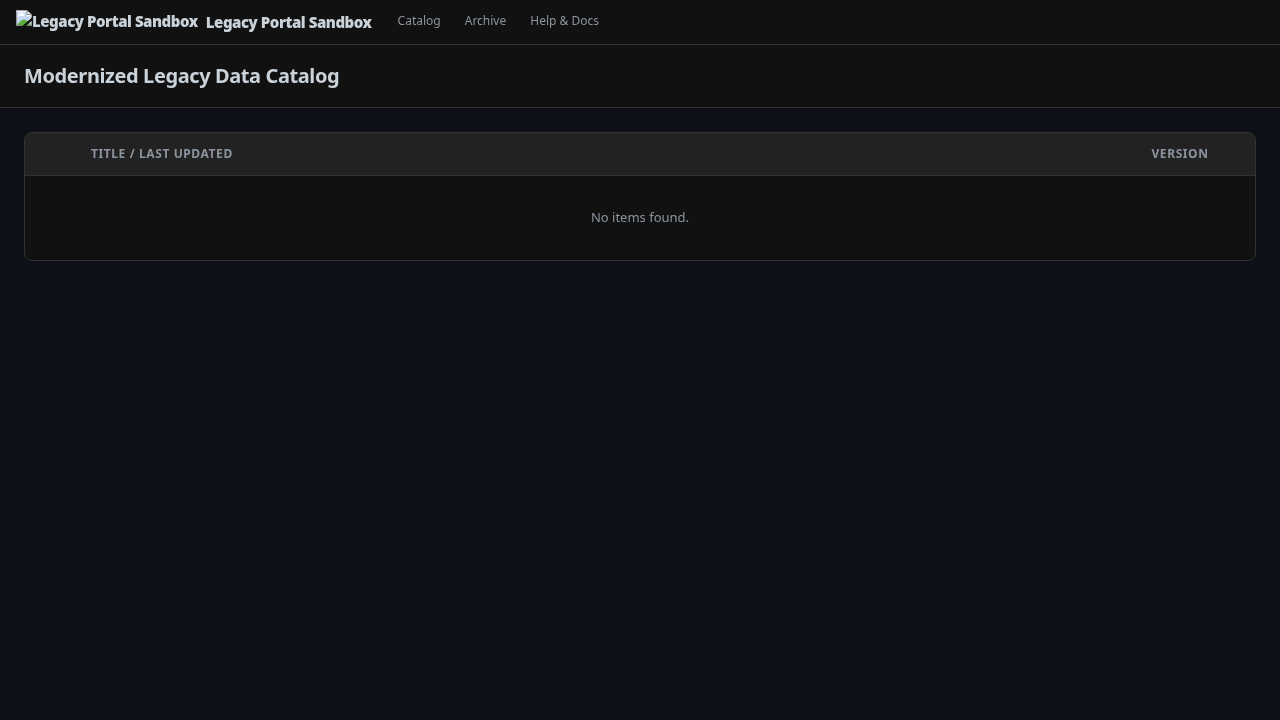
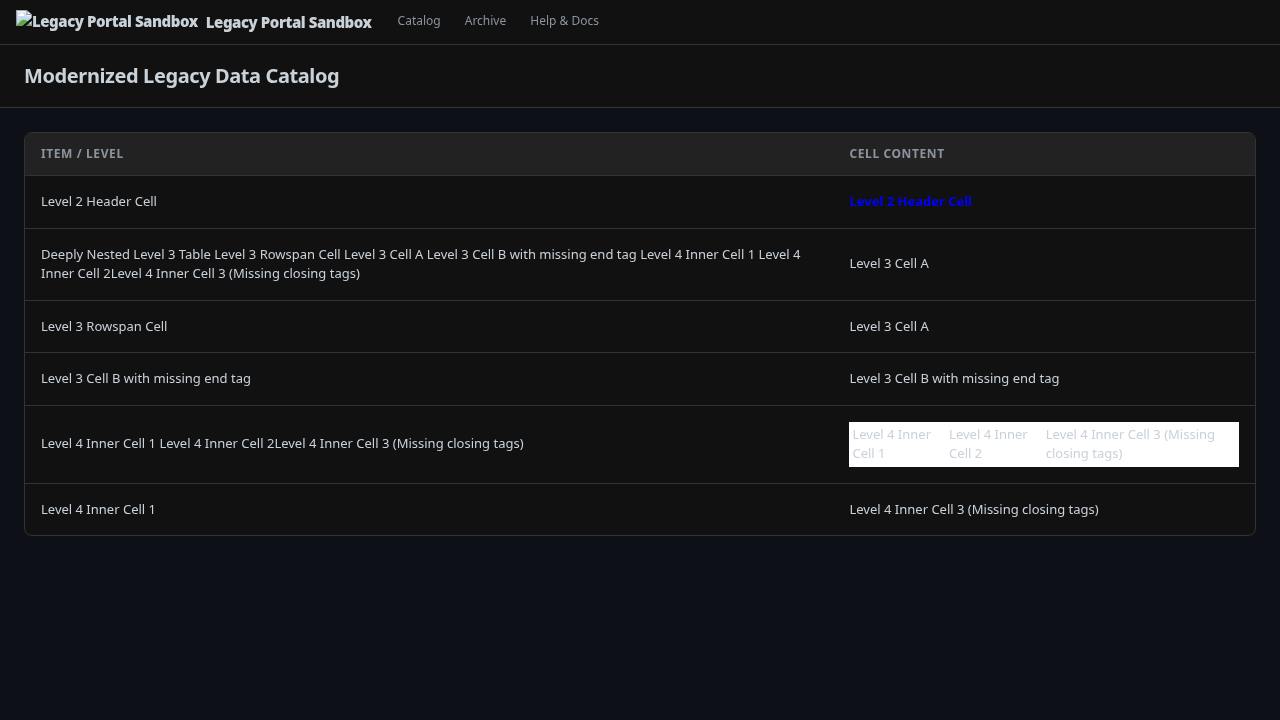
fix(qa): update vnr files to conform strictly with React component props schemas (cards for UiDashboardPage, tableRows for UiTableListPage)

diff --git a/environments/site-m-extreme-events/fixtures/result.html b/environments/site-m-extreme-events/fixtures/result.html
@@ -343,4 +343,4 @@
   </script>
 
 
-<script>window.__spm_dev_manifest = {"components":[{"action":"replace","name":"UiNavHeader","props":{"logoUrl":"https://synthetic-events-portal.internal/assets/logo.png","primaryLinks":[{"label":"Onclick Links","url":"/onclick"},{"label":"Dynamic Selectors","url":"/selectors"},{"label":"XSS Tests","url":"/xss"}],"siteName":"Event Sandbox"},"selector":"header"},{"action":"hide","selector":"#malformed-tag-container img[onerror]"}],"reconstructs":[{"children":[{"name":"eventFeed","propsMap":{"itemId":"a.test-link | attr:id","label":"a.test-link | text","targetData":"a.test-link | attr:data-target","targetUrl":"a.test-link | hrefOrOnclick"},"selector":".test-case-card"}],"containerSelector":"#section-1-onclick-links","layoutComponent":"UiDashboardPage","preserve":{"interactiveConsole":"#qa-log"},"props":{"pageTitle":"Interactive Event Extraction & Security Sandbox","subtitle":"Testing dynamic selectors, inline onclick redirects, and XSS sanitization"}},{"children":[],"containerSelector":"#section-3-xss-sanitization","layoutComponent":"UiSearchBar","props":{"placeholder":"Test sanitization input...","queryParamName":"payload","submitUrl":"/sandbox-eval"},"propsMap":{"defaultValue":"input#xss-input-1 | attr:value"}}],"theme":{"cssVariables":{"--spm-accent":"#00e5ff","--spm-bg-element":"#1e1e1e","--spm-bg-primary":"#050505","--spm-bg-surface":"#121212","--spm-border-contrast":"rgba(0, 255, 102, 0.2)","--spm-text-muted":"#888888","--spm-text-primary":"#00ff66"},"customStyles":"#qa-log { font-family: monospace !important; border: 1px solid var(--spm-accent) !important; }","label":"Event Sandbox Cyber"}};</script><script src="file:///home/watashi/Projects/extension/dist/src/content/index.iife.js"></script></body></html>
+<script>window.__spm_dev_manifest = {"components":[{"action":"replace","name":"UiNavHeader","props":{"logoUrl":"https://synthetic-events-portal.internal/assets/logo.png","primaryLinks":[{"label":"Onclick Links","url":"/onclick"},{"label":"Dynamic Selectors","url":"/selectors"},{"label":"XSS Tests","url":"/xss"}],"siteName":"Event Sandbox"},"selector":"header"},{"action":"hide","selector":"#malformed-tag-container img[onerror]"}],"reconstructs":[{"children":[{"name":"cards","propsMap":{"description":"p | text","title":"h3 | text","url":"a.test-link | hrefOrOnclick","urlLabel":"a.test-link | text"},"selector":".test-case-card"}],"containerSelector":"#section-1-onclick-links","layoutComponent":"UiDashboardPage","preserve":{"interactiveConsole":"#qa-log"},"props":{"pageTitle":"Interactive Event Extraction & Security Sandbox","subTitle":"Tests extraction and handling of inline event handlers, string arithmetic, function calls, and data-attributes."}},{"children":[],"containerSelector":"#section-3-xss-sanitization","layoutComponent":"UiSearchBar","props":{"placeholder":"Test sanitization input...","queryParamName":"payload","submitUrl":"/sandbox-eval"},"propsMap":{"defaultValue":"input#xss-input-1 | attr:value"}}],"theme":{"cssVariables":{"--spm-accent":"#00e5ff","--spm-bg-element":"#1e1e1e","--spm-bg-primary":"#050505","--spm-bg-surface":"#121212","--spm-border-contrast":"rgba(0, 255, 102, 0.2)","--spm-text-muted":"#888888","--spm-text-primary":"#00ff66"},"customStyles":"#qa-log { font-family: monospace !important; border: 1px solid var(--spm-accent) !important; }","label":"Event Sandbox Cyber"}};</script><script src="file:///home/watashi/Projects/extension/dist/src/content/index.iife.js"></script></body></html>

diff --git a/environments/site-l-extreme-legacy/fixtures/result.html b/environments/site-l-extreme-legacy/fixtures/result.html
@@ -233,4 +233,4 @@ marquee { display: none !important; } font { color: inherit !important; font-fam
 
 
 
-<script>window.__spm_dev_manifest = {"components":[{"action":"replace","name":"UiNavHeader","props":{"logoUrl":"https://synthetic-legacy-portal.internal/assets/logo.png","primaryLinks":[{"label":"Catalog","url":"/catalog"},{"label":"Archive","url":"/archive"},{"label":"Help & Docs","url":"/docs"}],"siteName":"Legacy Portal Sandbox"},"selector":"header"},{"action":"hide","selector":"#section-3-deprecated-tags marquee, #search-form-footer, center > font"}],"reconstructs":[{"children":[{"name":"tableItems","propsMap":{"detailUrl":"a | attr:href","id":"self | attr:id","tags":"span | text | split","title":"td | text"},"selector":"table table tr"}],"containerSelector":"#section-1-deep-tables","layoutComponent":"UiTableListPage","preserve":{"hiddenMetadata":"#search-form-secondary input[type='hidden']","legacySearchForm":"#search-form-primary"},"props":{"pageTitle":"Modernized Legacy Data Catalog","sticky":true,"subtitle":"Extracted from 4-level nested legacy tables"}}],"theme":{"cssVariables":{"--spm-accent":"#58a6ff","--spm-bg-element":"#21262d","--spm-bg-primary":"#0d1117","--spm-bg-surface":"#161b22","--spm-border-contrast":"rgba(240, 246, 252, 0.1)","--spm-text-muted":"#8b949e","--spm-text-primary":"#c9d1d9"},"customStyles":"marquee { display: none !important; } font { color: inherit !important; font-family: inherit !important; }","label":"Extreme Legacy Dark"}};</script><script src="file:///home/watashi/Projects/extension/dist/src/content/index.iife.js"></script></body></html>
+<script>window.__spm_dev_manifest = {"components":[{"action":"replace","name":"UiNavHeader","props":{"logoUrl":"https://synthetic-legacy-portal.internal/assets/logo.png","primaryLinks":[{"label":"Catalog","url":"/catalog"},{"label":"Archive","url":"/archive"},{"label":"Help & Docs","url":"/docs"}],"siteName":"Legacy Portal Sandbox"},"selector":"header"},{"action":"hide","selector":"#section-3-deprecated-tags marquee, #search-form-footer, center > font"}],"reconstructs":[{"children":[{"name":"tableRows","propsMap":{"detail":"td:last-child | html","title":"td:first-child | text"},"selector":"table table tr"}],"containerSelector":"#section-1-deep-tables","layoutComponent":"UiTableListPage","preserve":{"hiddenMetadata":"#search-form-secondary input[type='hidden']","legacySearchForm":"#search-form-primary"},"props":{"columns":[{"header":"Item / Level","key":"title","type":"text"},{"header":"Cell Content","key":"detail","type":"html"}],"pageTitle":"Modernized Legacy Data Catalog"}}],"theme":{"cssVariables":{"--spm-accent":"#58a6ff","--spm-bg-element":"#21262d","--spm-bg-primary":"#0d1117","--spm-bg-surface":"#161b22","--spm-border-contrast":"rgba(240, 246, 252, 0.1)","--spm-text-muted":"#8b949e","--spm-text-primary":"#c9d1d9"},"customStyles":"marquee { display: none !important; } font { color: inherit !important; font-family: inherit !important; }","label":"Extreme Legacy Dark"}};</script><script src="file:///home/watashi/Projects/extension/dist/src/content/index.iife.js"></script></body></html>

diff --git a/environments/site-n-extreme-layout/fixtures/result.html b/environments/site-n-extreme-layout/fixtures/result.html
@@ -393,4 +393,4 @@
   </script>
 
 
-<script>window.__spm_dev_manifest = {"components":[{"action":"replace","name":"UiNavHeader","props":{"primaryLinks":[{"label":"Gallery","url":"/gallery"},{"label":"Mutations","url":"/mutations"},{"label":"Shadow DOM","url":"/shadow"}],"siteName":"Layout Sandbox","sticky":true},"selector":"header"},{"action":"hide","selector":"#negative-margin-container"}],"reconstructs":[{"children":[{"name":"galleryItems","propsMap":{"imageSrcset":"img | attr:srcset","imageUrl":"img | attr:src","rating":"span | text | cleanNumber","title":"h3 | text"},"selector":"#inline-stress-container"}],"containerSelector":"#section-1","layoutComponent":"UiModernGridPage","preserve":{"shadowDomHost":"#shadow-host"},"props":{"columns":3,"pageTitle":"Extreme Layout & Shadow DOM Gallery","sticky":true,"subtitle":"Stress testing inline CSS overrides, dynamic DOM mutations, and Shadow DOM bounds"}}],"theme":{"cssVariables":{"--spm-accent":"#ff0055","--spm-bg-element":"#1c202e","--spm-bg-primary":"#090a0f","--spm-bg-surface":"#12151e","--spm-border-contrast":"rgba(255, 0, 85, 0.2)","--spm-radius":"12px","--spm-text-muted":"#a0a5b5","--spm-text-primary":"#ffffff"},"customStyles":"#inline-stress-container { width: 100% !important; margin: 0 !important; float: none !important; }\n:host { display: block; width: 100%; box-sizing: border-box; }","label":"Extreme Layout Neon"}};</script><script src="file:///home/watashi/Projects/extension/dist/src/content/index.iife.js"></script></body></html>
+<script>window.__spm_dev_manifest = {"components":[{"action":"replace","name":"UiNavHeader","props":{"primaryLinks":[{"label":"Gallery","url":"/gallery"},{"label":"Mutations","url":"/mutations"},{"label":"Shadow DOM","url":"/shadow"}],"siteName":"Layout Sandbox","sticky":true},"selector":"header"},{"action":"hide","selector":"#negative-margin-container"}],"reconstructs":[{"children":[{"name":"items","propsMap":{"id":"self | attr:id","imageUrl":"img | attr:src","linkUrl":"a | attr:href","title":"self | text"},"selector":"#inline-stress-container, #negative-margin-container"}],"containerSelector":"#section-1","layoutComponent":"UiModernGridPage","preserve":{"shadowDomHost":"#shadow-host"},"props":{"pageTitle":"Extreme Layout & Shadow DOM Gallery","sidebarWidth":"280px"}}],"theme":{"cssVariables":{"--spm-accent":"#ff0055","--spm-bg-element":"#1c202e","--spm-bg-primary":"#090a0f","--spm-bg-surface":"#12151e","--spm-border-contrast":"rgba(255, 0, 85, 0.2)","--spm-radius":"12px","--spm-text-muted":"#a0a5b5","--spm-text-primary":"#ffffff"},"customStyles":"#inline-stress-container { width: 100% !important; margin: 0 !important; float: none !important; }\n:host { display: block; width: 100%; box-sizing: border-box; }","label":"Extreme Layout Neon"}};</script><script src="file:///home/watashi/Projects/extension/dist/src/content/index.iife.js"></script></body></html>
